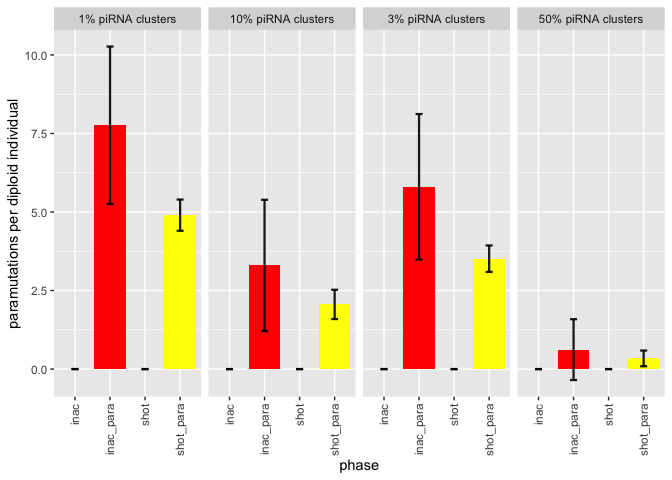
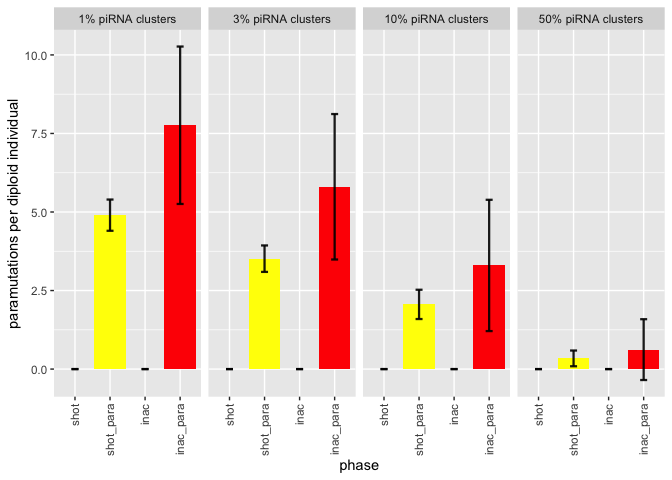
Figure improvement

diff --git a/Simulation/2022_08_29_Simulation_3_clusters.md b/Simulation/2022_08_29_Simulation_3_clusters.md
@@ -227,6 +227,9 @@ e$clusters<-c("1% piRNA clusters", "1% piRNA clusters", "3% piRNA clusters", "3%
               "10% piRNA clusters", "10% piRNA clusters", "50% piRNA clusters", "50% piRNA clusters")
 
 e$tag<-c("shot", "inac", "shot", "inac", "shot", "inac", "shot", "inac", "shot_para", "inac_para", "shot_para", "inac_para", "shot_para", "inac_para", "shot_para", "inac_para")
+e$tag <- factor(e$tag,levels = c("shot", "shot_para", "inac", "inac_para"))
+e$clusters <- factor(e$clusters,levels = c("1% piRNA clusters", 
+                                               "3% piRNA clusters", "10% piRNA clusters", "50% piRNA clusters"))
 
 g2_3 <- ggplot(e, aes(x=tag, y=mean_avcli, fill = phase))+ 
   geom_bar(stat = "identity")+
@@ -249,6 +252,9 @@ e_3$clusters<-c("1% piRNA clusters", "1% piRNA clusters", "3% piRNA clusters", "
               "10% piRNA clusters", "10% piRNA clusters", "50% piRNA clusters", "50% piRNA clusters")
 
 e_3$tag<-c("shot", "inac", "shot", "inac", "shot", "inac", "shot", "inac", "shot_para", "inac_para", "shot_para", "inac_para", "shot_para", "inac_para", "shot_para", "inac_para")
+e_3$tag <- factor(e_3$tag,levels = c("shot", "shot_para", "inac", "inac_para"))
+e_3$clusters <- factor(e_3$clusters,levels = c("1% piRNA clusters", 
+"3% piRNA clusters", "10% piRNA clusters", "50% piRNA clusters"))
 
 g3_3 <- ggplot(e_3, aes(x=tag, y=mean_avpar, fill = phase))+ 
   geom_bar(stat = "identity")+
